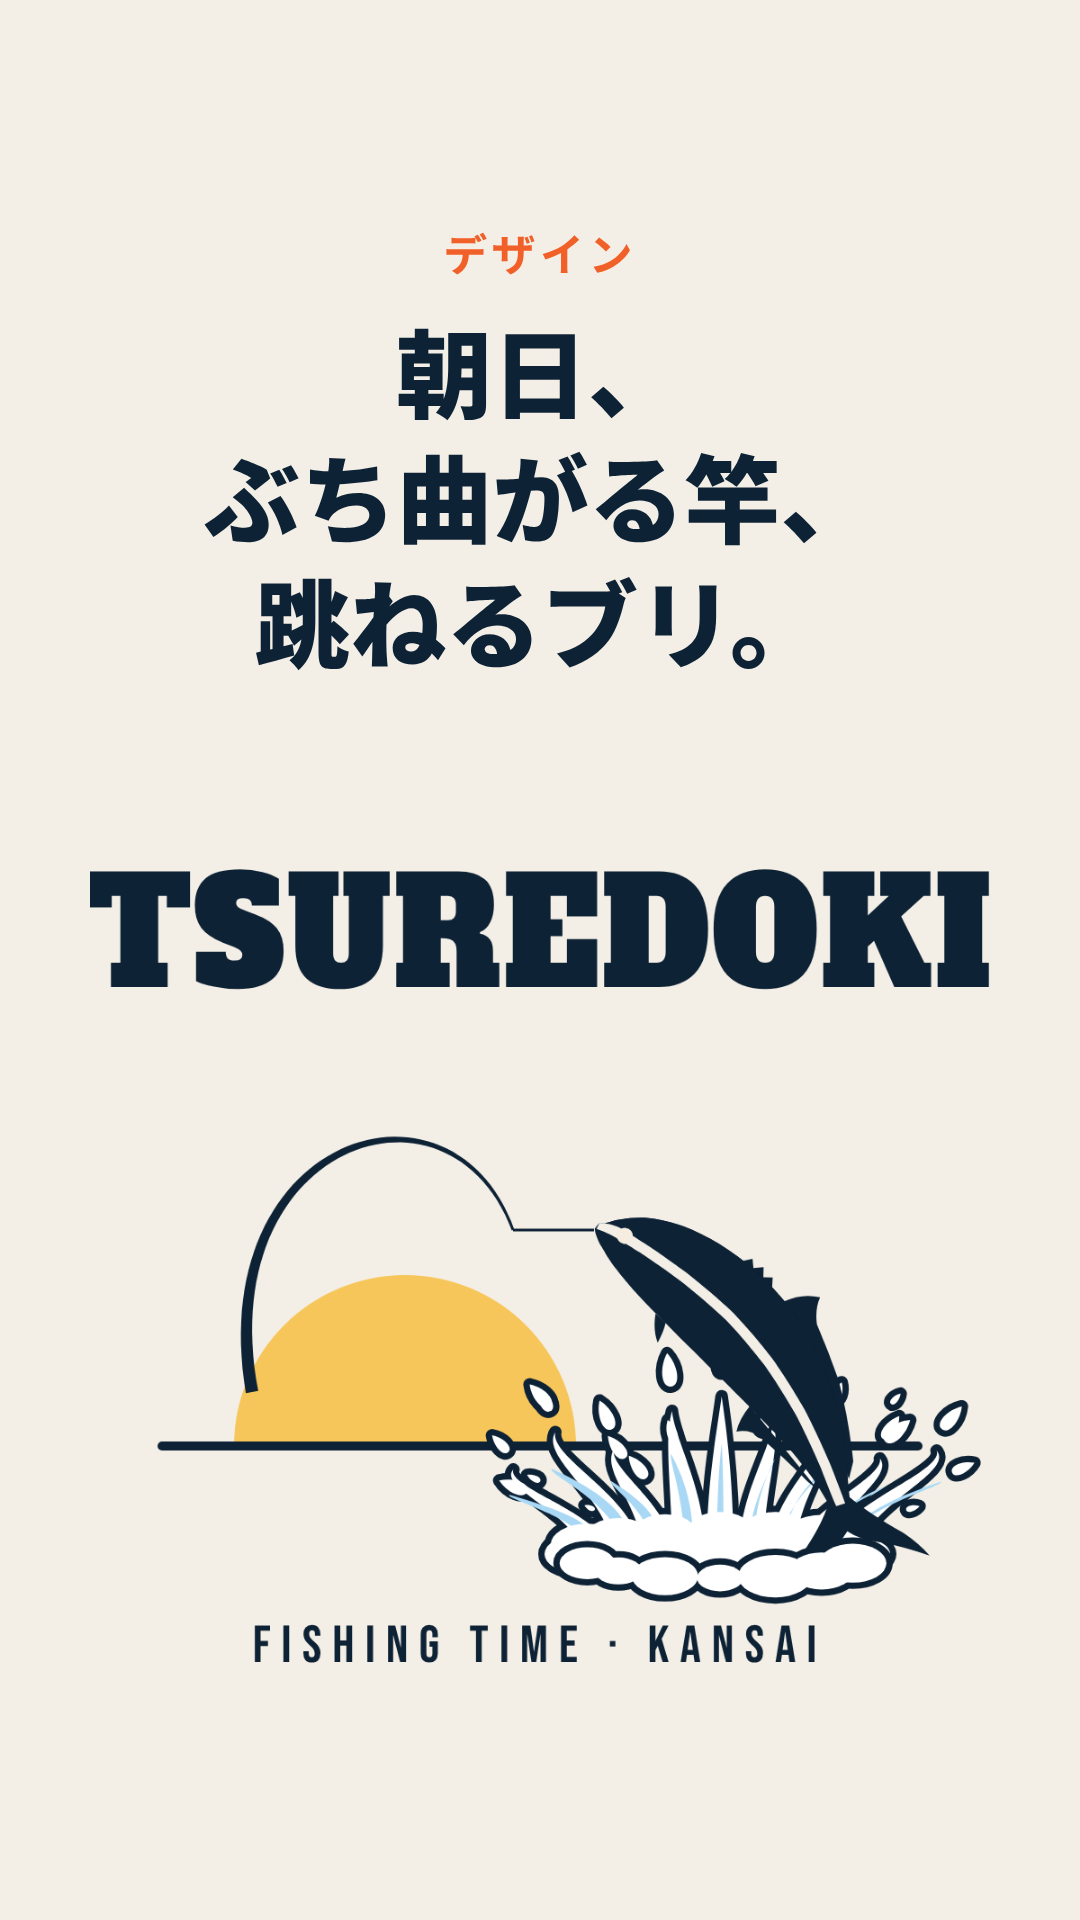
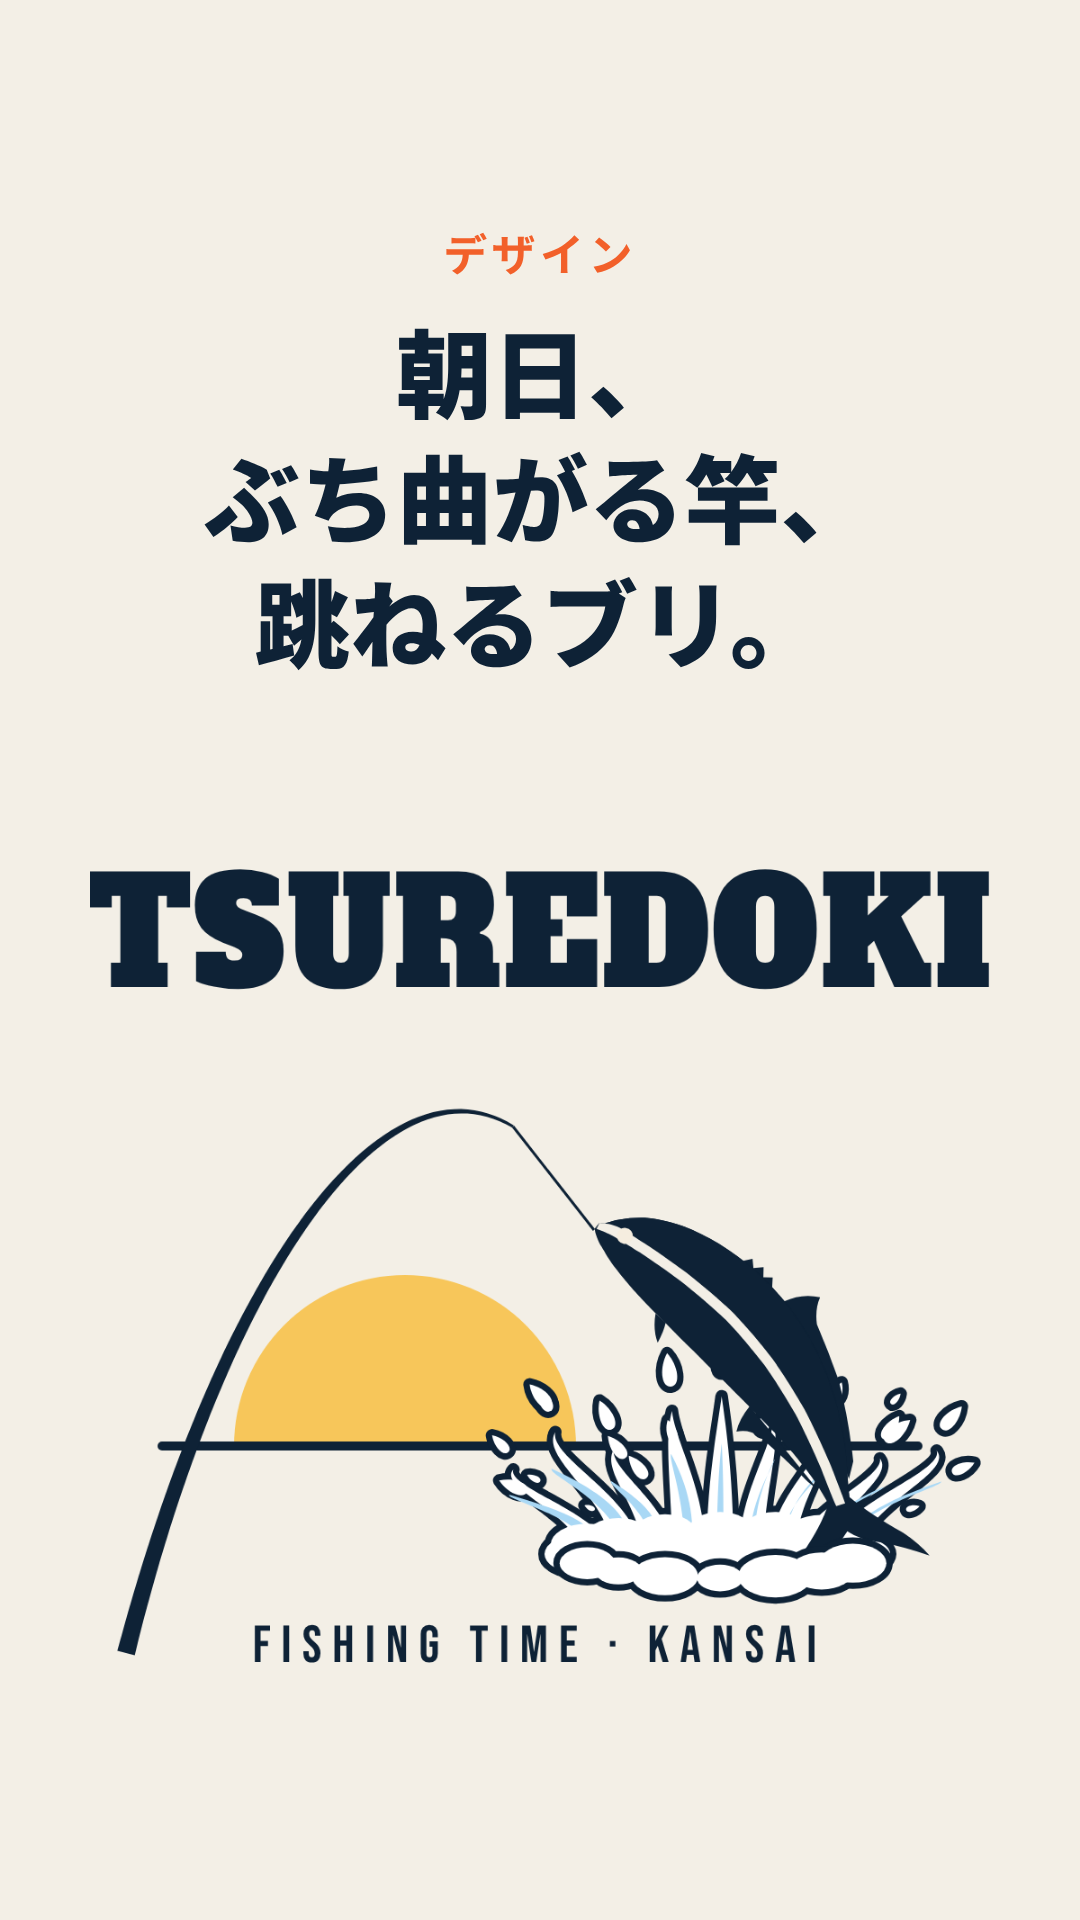
グッズ：竿・糸・魚の関係を直したデザインに差し替え
Claude-Session: https://claude.ai/code/session_0136AjP6UKpQXASPdXzdeXrp

diff --git a/content/goods/src/simple.js b/content/goods/src/simple.js
@@ -19,7 +19,7 @@ function S1(c){const rod=rodC([250,640],[190,330],[480,230],[548,450],14,3,c.ink
  ${SP.splash2(740,872,380,170,c,4)}${buriG2({x:m[0],y:m[1],rot:50,scale:.47,bend:-128,c:monoC(c),outline:0,simple:true})}${SP.splash2(740,872,380,170,c,4,"front")}
  <g transform="translate(500 985) skewX(-10)"><text text-anchor="middle" font-family="${JP}" font-weight="900" font-size="46" fill="${c.ink}" letter-spacing="14">FISHING TIME · KANSAI</text></g></svg>`;}
 // S2: no frame — title, one sun, horizon line, rod, buri + splash
-function S2(c,o={}){const fam=o.fam||JP, fw=o.fw||900, fs=o.fs||158, sk=o.sk??-10, sy=o.sy||1.32, ls=o.ls??-2, ffam=o.ffam||JP, ffs=o.ffs||46;const rod=rodC([180,700],[130,420],[400,330],[470,520],14,3,c.ink);const m=[560,520];
+function S2(c,o={}){const fam=o.fam||JP, fw=o.fw||900, fs=o.fs||158, sk=o.sk??-10, sy=o.sy||1.32, ls=o.ls??-2, ffam=o.ffam||JP, ffs=o.ffs||46;const rod=rodC([40,990],[150,560],[330,320],[470,405],20,3,c.ink);const m=[560,520];
  return `<svg xmlns="http://www.w3.org/2000/svg" viewBox="0 0 1000 1040" width="1000" height="1040">
  <g transform="translate(500 250) skewX(${sk}) scale(1 ${sy})"><text text-anchor="middle" font-family="${fam}" font-weight="${fw}" font-size="${fs}" fill="${c.ink}" letter-spacing="${ls}">TSUREDOKI</text></g>
  <defs><clipPath id="s2"><rect x="0" y="0" width="1000" height="760"/></clipPath></defs>
